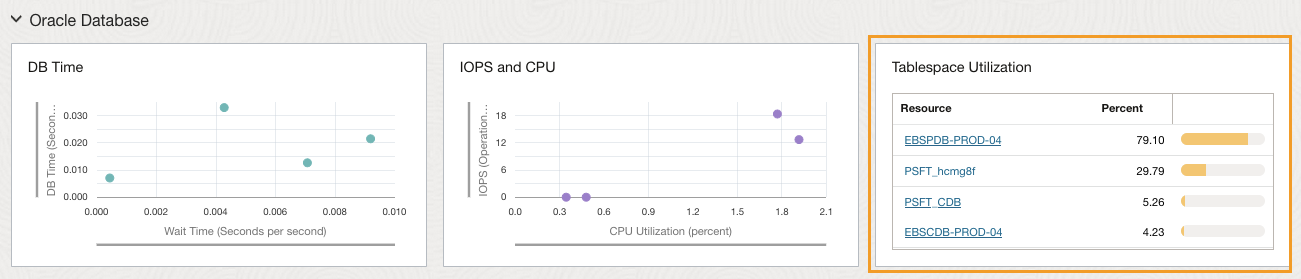
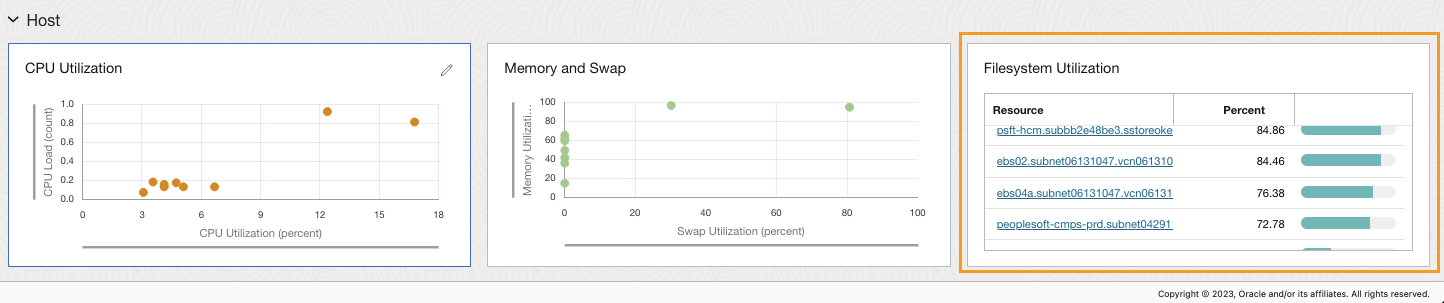
2-19-review

diff --git a/oci-stack-monitoring-getstarted/02-enterprise-summary/enterprise-summary.md b/oci-stack-monitoring-getstarted/02-enterprise-summary/enterprise-summary.md
@@ -2,17 +2,17 @@
 
 ## Introduction
 
-In this lab, you will review the status and performance of an entire enterprise. You will leverage the Stack Monitoring Enterprise Summary page to identify the number of resources that are down, and review the number of open alarms. Additionally, you will identify the list of Oracle Databases in a Not Reporting state. Learn how to review performance metrics of the various tiers (e.g. E-Business Suite, PeopleSoft, WebLogic Server, Oracle Database, and Host). Finally, you will replace the Tablespace Utilization table, under the Oracle Database tier. 
+In this lab, you will review the status and performance of an application and its underlying tech stack. You will leverage the Stack Monitoring Enterprise Summary page to identify the resources that are down, and review the open alarms. Additionally, you will identify the list of Oracle Databases in a Not Reporting state. Learn how to review performance metrics of the various tiers (e.g. E-Business Suite, PeopleSoft, WebLogic Server, Oracle Database, and Host). Finally, you will review Flash Recovery Area (FRA) utilization by replacing the Tablespace Utilization table. 
 
 Estimated time: 10 minutes
 
 ### Objectives
 
 * Identify resources that are down across the enterprise
-* Identify and review resources by type that are not up
+* Identify application outages and resources that are down
 * Review open alarms by severity
 * Review the performance of resources across an enterprise
-* Replace a metric table to Dynamic troubleshoot a storage issue using the Enterprise Summary
+* Replace a metric table to dynamically troubleshoot FRA utilization
 
 ### Prerequisites
 
@@ -37,19 +37,19 @@ Estimated time: 10 minutes
 
 3. Review all resources that are **Not Reporting**
 
-	Now that we have identified resources in a down state, let's identify those that are **Not Reporting**. Not Reporting generally indicates the agent is no longer uploading data. Stack Monitoring identifies the availability metric data is stale, and updates the status to **Not Reporting** to inform you there is an issue obtaining the resource's status. Alerts can be configured to notify you when the resource is Down or Not Reporting. 
+	Now that we have identified resources in a down state, let's identify those that are **Not Reporting**. Not Reporting generally indicates the agent is no longer uploading data. Stack Monitoring updates the status of monitored resources to **Not Reporting** to inform you there is an issue obtaining the resource's status. Alarms can be configured to notify you when the resource is Down or Not Reporting. 
 
-	Using the Status filter located in the center of the fly-out, update the **Status** filter from **Down** to **Not reporting**. The table now displays all of the resources in a **Not Reporting** state. Clicking a resource name will navigate you that resource's homepage, where you can leverage the Stack Monitoring resource associations to identify the agent monitoring the resource, and navigate to the agent's homepage to troubleshoot. We'll cover navigating a resources relationships in a later lesson. For now, let's return to the Enterprise Summary. Click the **Close** button in the lower left corner of the fly-out.
+	Using the Status filter located in the center of the fly-out, update the **Status** filter from **Down** to **Not reporting**. The table now displays all of the resources in a **Not Reporting** state. Clicking a resource name will navigate you that resource's homepage, where you can leverage the Stack Monitoring resource associations to identify the agent monitoring the resource and navigate to the agent's homepage to troubleshoot. We'll cover navigating a resources relationships in a later lesson. For now, let's return to the Enterprise Summary. Click the **Close** button in the lower left corner of the fly-out.
 
  	![Oracle Cloud console, Enterprise Summary](images/1-3-ent-sum.png " ")
 
-## Task 2: Identify and review resources by type that are not up
+## Task 2: Identify and review resources by type that are down or not reporting
 
 1. Locate the **Status by resource type** chart at the top center of the page. 
 
  	![Oracle Cloud console, Enterprise Summary](images/2-1-ent-sum.png " ")
 
-	The **Status by resource type** chart provides a quick view of the status of your resources by type across an enterprise. Each bar represents a total count of resources by type regardless of state. The reporting of an application stack, such as E-Business Suite and PeopleSoft, is unique. Each bar represents an application and it's components, this allows you to identify if any individual components of an application is down or not reporting. Should you identify an area of concern with an application, clicking the bar will navigate you to that resource's homepage. We'll review homepages in the next lesson.
+	The **Status by resource type** chart allows you to easily identify which tiers of your application has availability issues. Each bar represents each tier of the application stack, (e.g. host, database, application server). Using the status colors you can quickly assess if all resources within that tier are up, or identify the tier that has resources outages. The reporting of an application stack, such as E-Business Suite and PeopleSoft, is unique. Each bar represents an application and its components, this allows you to identify if any individual components of an application is down or not reporting. Should you identify an area of concern with an application, clicking the bar will navigate you to that resource's homepage. We'll review homepages in the next lesson.
 
 2. Identify resources by resource type that are **Not Reporting**
 
@@ -71,11 +71,11 @@ Estimated time: 10 minutes
 
 ## Task 3: Review open alarms by severity
 
-1. Locate the **Alarms** chart at the top right of the Enterprise Summary. 
+1. Locate the **Alarms** region at the top right of the Enterprise Summary. 
 
-	Stack Monitoring makes it simple to identify any open alarms within your enterprise. The **Alarms** chart provides a total count of open alarms, as well as a count of alarms by severity. Clicking on a count of alarms invokes a slide-out. The slide-out provides greater details of the open alarms and is filtered by the severity count selected. 
+	Stack Monitoring provides quick access to all open alarms on your monitored resources. The **Alarms** region provides a total count of open alarms, as well as a count of alarms by severity. Clicking on a count of alarms invokes a slide-out. The slide-out provides greater details of the open alarms and is filtered by the severity count selected. 
 
-	Let's review all of the open alarms within this enterprise. Begin by clicking the **Total** count of open alarms identified by the **blue** number in large font located under the chart title, Alarms. 
+	Let's review the open alarms. Begin by clicking the **Total** count of open alarms, in the **Alarms** region. 
 
  	![Oracle Cloud console, Enterprise Summary](images/3-0-ent-sum.png " ")
 
@@ -85,7 +85,7 @@ Estimated time: 10 minutes
 
 2. Refine the list of open alarms
 
- 	Lets filter the list to focus on only the **Critical** alarms. Using the **Severity filter**, located above the column **Triggered time** change the severity from **All** to **Critical**. The table now displays only the open alarms with a severity of **Critical**. 
+ 	Lets filter the list to focus on only the **Critical** alarms. Using the **Severity filter**, change the severity from **All** to **Critical**. The table now displays only the open alarms with a severity of **Critical**. 
 
  	![Oracle Cloud console, Enterprise Summary](images/3-2-ent-sum.png " ")
 
@@ -99,11 +99,11 @@ Estimated time: 10 minutes
 
 1. Enterprise Summary tiers
 
-	The **Enterprise Summary** makes it easy to see the performance of every resource within your enterprise. Stack Monitoring performance charts are organized by tier. The tiers are ordered in the same way troubleshooting is typically performed, with the Application specific tier at the top, web servers next, followed by database, and finally the hosts. Scatter-plot charts display a value for every resource type that matches the tier, i.e. if you have 20 hosts, you will see 20 data points. This allows you to visually identify if a single resource is being over utilized across the entire enterprise at a glance. Out-of-the-box, tables provide the four highest consumed/utilized resources of a given metric. 
+	The **Enterprise Summary** makes it easy to see the performance of every resource within your enterprise. Stack Monitoring performance charts are organized by tier. Each tier allows you to quickly access the overall load, response, utilization and errors across all resources in that tier. Scatter plot charts enable correlation between any two metrics, such as load and response metrics, for all resources in that tier. You can easily determine if a resource with the slowest response shows a corresponding high load. Resources with the highest load and response metric values can easily be spotted in the upper right corner of the chart, and clicking on their data points in the chart will allow you to further investigate metric trends. Out-of-the-box tables provide visibility into errors or show the resources with the highest space utilization.
 
  	![Oracle Cloud console, Enterprise Summary](images/4-1-ent-sum.png " ")
 
-	Stack Monitoring makes it easy to troubleshoot any resource type and any metric at any time. All performance charts and tables can be modified or replaced to help identify problems or troubleshooting a specific performance problem. Once you have completed your investigation a saved chart or table can be reset to the default configuration with just a click. 
+	Stack Monitoring makes it easy to troubleshoot any resource type and any metric at any time. All performance charts and tables can be modified or replaced to help identify problems or troubleshooting a specific performance problem. For example host metrics such as Disk Activity and Network Activity to correlate performance of network read and writes. 
 
  	![Oracle Cloud console, Enterprise Summary](images/4-2-ent-sum.png " ")
 
@@ -111,29 +111,31 @@ Estimated time: 10 minutes
 
 2. Scatter-plots charts
 
-	Scatter-plot charts provide a visual representation of every resource in your enterprise. Using the scatter-plot charts we can see how busy and heavily utilized all resources such as Oracle Databases are across the enterprise. This makes it easy to identify if one or more resources are performing differently than the others. For instance, an Oracle Database with a plot point at the top right corner represents a busy database, while a plot point at the bottom left is idle. If you identify a performance anomaly, clicking on the plot point opens that resource's homepage to begin your investigation. We'll review this workflow in the next lesson.
-
-	Let's review memory and swap utilization of all hosts within this enterprise. Navigate to the **Memory and Swap** chart located under the **Host** tier at the bottom center of the Enterprise Summary. Every monitored host within Stack Monitoring is represented in this chart. The scatter-plot allows you to identify if a host(s) is performing differently than others. Here we can identify which host is utilizing the most memory and swap. We can also see the majority of hosts are using very little to no swap. If we were troubleshooting a an issue, this would allow us to easily rule out memory load as a contributing factor to any performance problems that may be occurring.
+	Scatter-plot charts provide a visual representation of the performance every resource in your enterprise. Using the scatter-plot charts we can see the IOPS and CPU of an Oracle Database to understand how heavily utilized the database is. This makes it easy to identify if one or more resources are performing differently than the others. For instance, an Oracle Database with a plot point at the top right corner represents a busy database, while a plot point at the bottom left is idle. If you identify a performance anomaly, clicking on the plot point opens that resource's homepage to begin your investigation. We'll review this workflow in the next lesson.
 
  	![Oracle Cloud console, Enterprise Summary](images/4-3-ent-sum.png " ")
 
-2. Tables
-
- 	Tables on the right hand side of the page allow you to quickly identify which resource has the most heavily used filesystems or tablespaces across your enterprise. By default **Tables** provide up to the four highest utilized or consumed resources of a given metric. The number of rows displayed can be updated from 4 to 10, 20, or all. Let's review the top 20 most heavily utilized tablespaces within the enterprise. Locate **Tablespace Utilization** chart on the right side under the **Oracle Database** tier. Click the pencil icon in the top right of chart. After clicking the pencil, enable the **Advanced** menu items by updating the **Advanced** flag. Enabling the Advanced menu, provides access to optional features of a table or chart. Click **Display records** to change the value of rows displayed from 4 to **20**. With the value updated to 20, click **Apply** in the lower left of the slide-out to return to the Enterprise Summary. 
+	Let's review memory and swap utilization of all hosts within this enterprise. Navigate to the **Memory and Swap** chart located under the **Host** tier at the bottom center of the Enterprise Summary. Every monitored host within Stack Monitoring is represented in this chart. You can assess the overall usage of memory and swap across all hosts. You can identify which host is utilizing the most memory and swap. We can also see the majority of hosts are using very little to no swap. If we were troubleshooting a an issue, this would allow us to easily rule out memory load as a contributing factor to any performance problems that may be occurring.
 
  	![Oracle Cloud console, Enterprise Summary](images/4-4-ent-sum.png " ")
 
- 	We can now see a list of the top 20 most heavily utilized tablespaces within the enterprise. Should one of the tablespaces cause concern, clicking any of the resource names will navigate you to that resource's homepage for further investigation. For example, when investigating tablespace utilization it is good to review the growth over time to understand if more space should be added, and if so how much. From a Stack Monitoring Oracle Database homepage you can chart the growth of the tablespace over time using the **Tablespace Utilization** chart. We'll review resource homepages in a later lesson.
+2. Tables
+
+ 	Tables on the right hand side of the page allow you to quickly identify which hosts or databases have the highest filesystem usage or tablespace usage. By default **Tables** provide up to the four highest utilized or consumed resources of a given metric. The number of rows displayed can be updated from 4 to 10, 20, or all. Let's review the top 20 most heavily utilized filesystems within the enterprise. Locate **Filesystem Utilization** chart on the right side under the **Hosts** tier. Click the pencil icon in the top right of chart. After clicking the pencil, enable the **Advanced** menu items by updating the **Advanced** flag. Enabling the Advanced menu, provides access to optional features of a table or chart. Click **Display records** to change the value of rows displayed from 4 to **20**. With the value updated to 20, click **Apply** in the lower left of the slide-out to return to the Enterprise Summary. 
 
  	![Oracle Cloud console, Enterprise Summary](images/4-5-ent-sum.png " ")
 
+ 	We can now see a list of the top 20 most heavily utilized filesystems within the enterprise. Should one of the filesystems cause concern, clicking any of the resource names will navigate you to that resource's homepage for further investigation. For example, when investigating filesystem utilization it is good to review the growth over time to understand if more space should be added, and if so how much. From a Stack Monitoring host homepage you can chart the growth of the filesystem over time using the **Filesystem Utilization** chart. We'll review resource homepages in a later lesson.
+
+ 	![Oracle Cloud console, Enterprise Summary](images/4-6-ent-sum.png " ")
+
 ## Task 5: Replace a metric table to Dynamic troubleshoot a storage issue using the Enterprise Summary
 
-1. Dynamic troubleshooting using the Enterprise Summary
+1. Replace a metric table to dynamically troubleshoot FRA utilization
 
 	The Enterprise Summary provides an overall perspective of the health and performance of your enterprise. Knowing that each organization and user is unique, the Enterprise Summary charts, tables, and tier names are customizable to meet the individual needs of the user at any given time. If you choose to update or replace what is displayed on the Enterprise Summary, you can save your changes permanently as your default. This can be especially helpful if you need to troubleshoot several different resource types and metrics while investigating an incident. Saving the configuration allows you to leave the Enterprise Summary and return later to the page with your updated view intact. Once you complete your investigation, simply click **Restore default** to return the Enterprise Summary to out-of-the-box configuration. Let's see how this is done.
 
-	Investigating health and performance issues are easy using dynamic troubleshooting. The Enterprise Summary allows you to easily swap out a metric table or chart with another. This allows you the ability to see the necessary metrics when troubleshooting issue quickly and easily. Let's imagine we have heard a database appears to be in a hung state. Using the Enterprise Summary we can review the load on all the databases across the enterprise. From within the database tier, we can identify how busy all databases are using **DB Time** and **IOPS**. We can also review tablespace utilization. It may then be necessary to review the Flash Recovery Area (FRA). Let's review the FRA across the enterprise using Stack Monitoring dynamic troubleshooting charts. dTo review the FRA utilization find the **Storage Utilization by Tablespace** under the Oracle Database tier. Begin by clicking the pencil icon in the top right of the table to invoke the slide-out. With the slide-out loaded, simply update the metric reported by selecting **FRA Utilization** (Fast Recovery Area) from the **Metric name** drop-down menu. With the metric updated to FRA Utilization, select **Apply** in the lower left of the slide-out. 
+	Investigating health and performance issues are easy using dynamic troubleshooting. The Enterprise Summary allows you to easily swap out a metric table or chart with another. This allows you the ability to see the necessary metrics when troubleshooting issue quickly and easily. Let's imagine we have heard a database appears to be in a hung state. Using the Enterprise Summary we can review the load on all the databases across the enterprise. From within the database tier, we can identify how busy all databases are using **DB Time** and **IOPS**. We can also review tablespace utilization. It may then be necessary to review the Flash Recovery Area (FRA). Let's review the FRA across all monitored databases. To review the FRA utilization find the **Storage Utilization by Tablespace** under the Oracle Database tier. Begin by clicking the pencil icon in the top right of the table to invoke the slide-out. With the slide-out loaded, simply change the metric to **FRA Utilization** (Fast Recovery Area) from the **Metric name** drop-down menu. With the metric updated to FRA Utilization, select **Apply** in the lower left of the slide-out. 
 
  	![Oracle Cloud console, Enterprise Summary](images/5-1-ent-sum.png " ")
 

diff --git a/oci-stack-monitoring-getstarted/00-introduction/introduction.md b/oci-stack-monitoring-getstarted/00-introduction/introduction.md
@@ -2,11 +2,11 @@
 
 ## About this Workshop
 
-In this workshop, you will become familiar with Oracle's Stack Monitoring. Stack Monitoring is cloud-native service to monitor and view the health and performance of your enterprise. Stack Monitoring is capable of monitoring resources running both within Oracle Cloud Infrastructure (OCI) or on-premises.
+In this workshop, you will become familiar with Oracle's Stack Monitoring. Stack Monitoring is cloud-native service to monitor and view the health and performance of applications and the underlying tech stack. Stack Monitoring is capable of monitoring resources running both within Oracle Cloud Infrastructure (OCI) or on-premises.
 
-Using Stack Monitoring's Enterprise Summary, you will learn to identify application outages and downed resources across your enterprise at a glance. Identify and triage all open alarms. Leverage Stack Monitoring's Key Performance Metrics (KPI's) organized into tiers to identify performance outliers. And finally learn to dynamically configure the Enterprise Summary to meet your needs in the moment for example swapping a metric table to troubleshooting a specific database problem, or adjust permanently to meet the needs of a specialized role.
+Using Stack Monitoring's Enterprise Summary, you will learn to identify application outages across your enterprise at a glance. Identify and triage all open alarms. Leverage Stack Monitoring's Key Performance Metrics (KPI's) organized into tiers to review performance outliers. And finally learn to dynamically configure the Enterprise Summary to meet your needs in the moment. This is helpful if you need to swap a metric chart or table with another to troubleshooting an alarm, that is not displayed out of the box.
 
-You will also become familiar with Stack Monitoring's homepages. Learn how to triage alarms open alarms, and review the out-of-the-box charts to identify performance problems and trend the performance over time. You will also become familiar with using Stack Monitoring's relationships between resources, to troubleshoot issues across an application stack. And finally, leverage Stack Monitoring's **Stack View** to get a holistic perspective of key performance metrics across an entire E-Business Suite application.
+You will also become familiar with Stack Monitoring's homepages. learn how to triage open alarms and view metric performance over time. Become familiar with using Stack Monitoring's relationships between resources, to understand the application topology and troubleshoot issues across an application stack. And finally, leverage Stack Monitoring's **Stack View** to get a holistic perspective of key performance metrics across an entire E-Business Suite application.
 
 Estimated Time: 30 minutes
 
@@ -17,18 +17,18 @@ Stack Monitoring provides discovery and monitoring of applications and applicati
 
 ### Objectives
 
-In this workshop, the following features and functionality will be covered:
+In this workshop, the following topics will be covered:
 * Enterprise Summary
   - Identify a list of resources in a down state across the enterprise
   - Review open alarms across an enterprise
   - Review the performance of resources across an enterprise
-  - Replace a metric table
+  - Replace a metric table to troubleshoot a database flash recovery area
 * Homepages
   - Review a resource homepage
   - Review Performance menu including, alarms, charts, tables, and Stack View
-  - Review relationships between resources
-  - Troubleshoot an alarm across an application stack
-  - Review the Stack View
+  - Review application topology
+  - Navigate across an application stack
+  - Review an Entire Application stack using the Stack View
 
 ### Prerequisites
 
